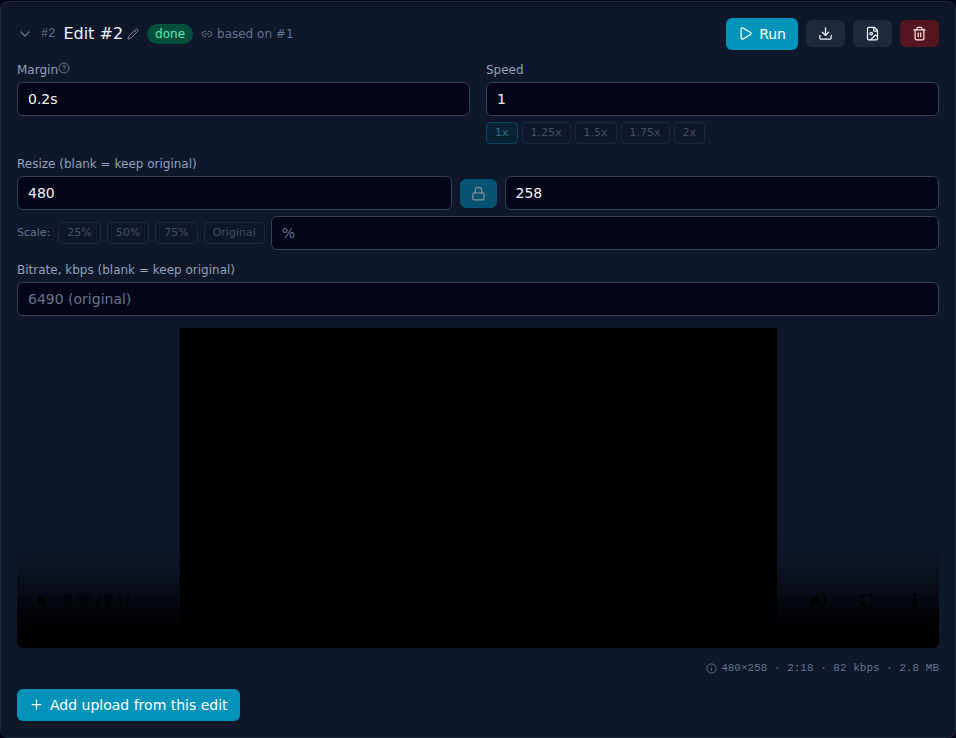
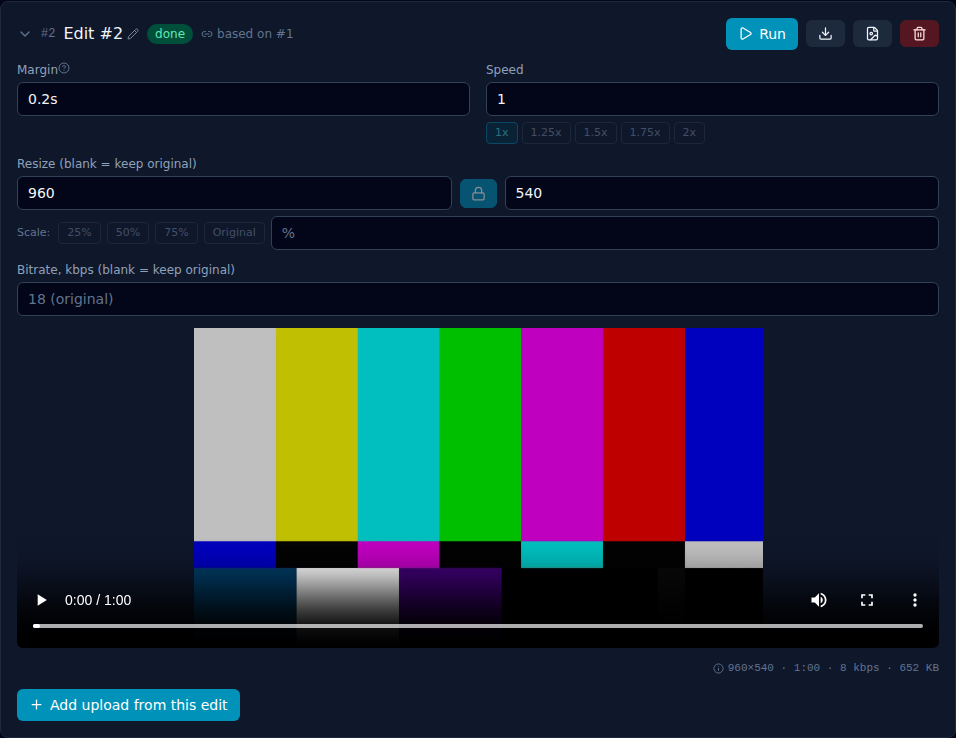
Fix black video previews in screenshots and tighten gallery layout
RCA: the previous screenshot pass deliberately redacted video frames
(CSS brightness(0)) because the demo project's real footage contained a
visible face and, in another test project, actual LinkedIn profiles of
named people — unfit to publish, so it was blacked out rather than
shown. That produced correct-but-black video previews in every shot that
included one.

Fixed properly by seeding a new demo project with a synthetic,
generated color-bars/tone clip (no real people, safe to publish) and
re-capturing against that instead of redacting real footage. Along the
way: the synthetic audio was getting suppressed to near-silence by
DeepFilterNet (tuned for speech, not a steady tone), which then made
auto-editor cut nearly the whole clip as silence — worked around by
seeding the pipeline's cache with the pre-denoise audio for that source;
and Chromium doesn't reliably paint a <video>'s first frame without a
nudge, so the capture script now seeks each video to 0.1s once its data
is ready before shooting.

Also reworked the screenshots gallery layout: pairing images of very
different aspect ratios in a 2-column table left large empty gaps under
the shorter one (worst case: the old full-page project-view shot next to
a short header shot). Re-paired everything by matching aspect ratio, use
a 3-column row for the three short panel shots instead of wasting a
column on each, and switched the project-view capture from a full-page
[…]

diff --git a/README.md b/README.md
@@ -69,39 +69,47 @@ command, without you touching a timeline editor.
 ## Screenshots
 
 A quick tour of the local UI (`vidpolish ui`) — the same "Projects"
-notebook model described in [Local UI](#local-ui) below.
+notebook model described in [Local UI](#local-ui) below. (The video
+preview in these shots is a generated color-bars/tone clip, not a real
+recording — same idea as an SMPTE test card, used here purely so the
+screenshots don't include anyone's actual footage.)
 
 <table>
-<tr><td width="50%">
+<tr><td width="33%">
 
 **Projects list** — every project you've started, one click to open.
 
 <img src="media/screenshots/01-projects-list.png" width="100%">
 
-</td><td width="50%">
-
-**A project's notebook view** — source cell, several edit-cell speed
-variants, and upload cells, all in one scrollable page with drag-to-reorder
-within each section.
-
-<img src="media/screenshots/02-project-view.png" width="100%">
-
-</td></tr>
-<tr><td width="50%">
+</td><td width="33%">
 
 **Category quick-nav + collapse-all** — jump between Source/Edit/Upload
 sections, or collapse every cell down to its header row.
 
 <img src="media/screenshots/05-project-header.png" width="100%">
 
-</td><td width="50%">
+</td><td width="34%">
+
+**Cache panel** — shows which project a cache entry belongs to, and makes
+clear that deleting an entry never deletes the project itself.
+
+<img src="media/screenshots/09-cache.png" width="100%">
+
+</td></tr>
+</table>
+
+**A project's notebook view** — source cell and edit cells in one
+scrollable page, with drag-to-reorder (from the grip handle) within each
+section.
+
+<img src="media/screenshots/02-project-view.png" width="100%">
 
 **Collapsed cells** — a compact overview of a project once you don't need
 every cell expanded.
 
 <img src="media/screenshots/06-collapsed-cells.png" width="100%">
 
-</td></tr>
+<table>
 <tr><td width="50%">
 
 **An edit cell at rest** — margin (with an inline explanation), speed
@@ -112,27 +120,10 @@ aspect-ratio lock), bitrate, and a live pre-run size estimate.
 
 </td><td width="50%">
 
-**A finished edit cell** — the resolved video, a compact media-info
-summary bottom-right of it, Download, and the new GIF export action, all
-next to "Add upload from this edit" as the primary next step.
+**Tool status** — the same checks as `vidpolish deps`, with a re-check
+button per tool.
 
-<img src="media/screenshots/10-edit-cell-done.png" width="100%">
-
-</td></tr>
-<tr><td width="50%">
-
-**Media info, expanded** — click the summary to see full resolution,
-duration, bitrate, frame rate and file size, plus a percent-change
-comparison against the source.
-
-<img src="media/screenshots/11-media-info-popover.png" width="100%">
-
-</td><td width="50%">
-
-**Export as GIF** — pick fps and width, saved through the same
-save-file-picker flow as the video download.
-
-<img src="media/screenshots/12-gif-export.png" width="100%">
+<img src="media/screenshots/08-tools.png" width="100%">
 
 </td></tr>
 <tr><td width="50%">
@@ -152,28 +143,32 @@ in a copyable box (with a dedicated Copy button) rather than a bare link.
 </td></tr>
 <tr><td width="50%">
 
-**Tool status** — the same checks as `vidpolish deps`, with a re-check
-button per tool.
+**A finished edit cell** — the resolved video, a compact media-info
+summary bottom-right of it, Download, and the new GIF export action, all
+next to "Add upload from this edit" as the primary next step.
 
-<img src="media/screenshots/08-tools.png" width="100%">
+<img src="media/screenshots/10-edit-cell-done.png" width="100%">
 
 </td><td width="50%">
+
+**Media info, expanded** — click the summary to see full resolution,
+duration, bitrate, frame rate and file size, plus a percent-change
+comparison against the source.
+
+<img src="media/screenshots/11-media-info-popover.png" width="100%">
+
+</td></tr>
+</table>
+
+**Export as GIF** — pick fps and width, saved through the same
+save-file-picker flow as the video download.
+
+<img src="media/screenshots/12-gif-export.png" width="100%">
 
 **Config panel** — YouTube credentials (secrets masked), upload defaults,
 and thumbnail styling, with automatic backups before every save.
 
 <img src="media/screenshots/07-config.png" width="100%">
-
-</td></tr>
-<tr><td width="50%">
-
-**Cache panel** — shows which project a cache entry belongs to, and makes
-clear that deleting an entry never deletes the project itself.
-
-<img src="media/screenshots/09-cache.png" width="100%">
-
-</td><td width="50%"></td></tr>
-</table>
 
 ## Prerequisites
 
